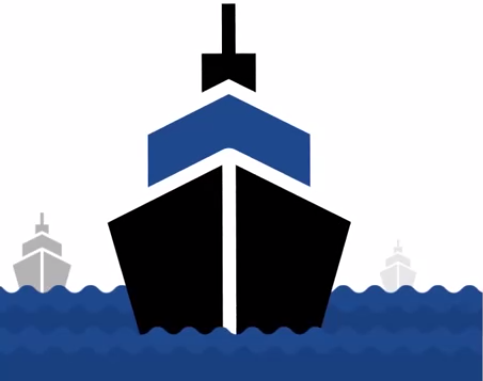
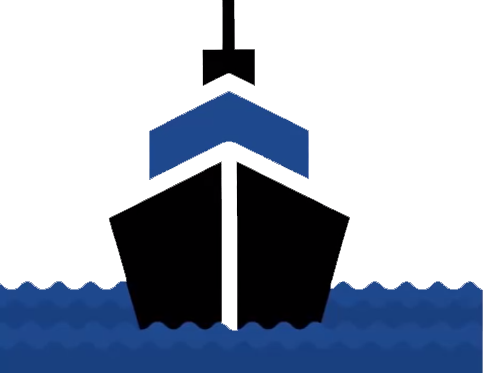
add slider(3 imgs in total)

diff --git a/js/slider.js b/js/slider.js
@@ -1,0 +1,106 @@
+//current position
+var pos = 0;
+//number of slides
+var totalSlides = $('#slider-wrap ul li').length;
+//get the slide width
+var sliderWidth = $('#slider-wrap').width();
+
+
+$(document).ready(function(){
+	
+	
+	/*****************
+	 BUILD THE SLIDER
+	*****************/
+	//set width to be 'x' times the number of slides
+	$('#slider-wrap ul#slider').width(sliderWidth*totalSlides);
+	
+    //next slide 	
+	$('#next').click(function(){
+		slideRight();
+	});
+	
+	//previous slide
+	$('#previous').click(function(){
+		slideLeft();
+	});
+	
+	
+	
+	/*************************
+	 //*> OPTIONAL SETTINGS
+	************************/
+	//automatic slider
+	var autoSlider = setInterval(slideRight, 3000);
+	
+	//for each slide 
+	$.each($('#slider-wrap ul li'), function() { 
+	   //set its color
+	   var c = $(this).attr("data-color");
+	   $(this).css("background",c);
+	   
+	   //create a pagination
+	   var li = document.createElement('li');
+	   $('#pagination-wrap ul').append(li);	   
+	});
+	
+	//counter
+	countSlides();
+	
+	//pagination
+	pagination();
+	
+	//hide/show controls/btns when hover
+	//pause automatic slide when hover
+	$('#slider-wrap').hover(
+	  function(){ $(this).addClass('active'); clearInterval(autoSlider); }, 
+	  function(){ $(this).removeClass('active'); autoSlider = setInterval(slideRight, 3000); }
+	);
+	
+	
+
+});//DOCUMENT READY
+	
+
+
+/***********
+ SLIDE LEFT
+************/
+function slideLeft(){
+	pos--;
+	if(pos==-1){ pos = totalSlides-1; }
+	$('#slider-wrap ul#slider').css('left', -(sliderWidth*pos)); 	
+	
+	//*> optional
+	countSlides();
+	pagination();
+}
+
+
+/************
+ SLIDE RIGHT
+*************/
+function slideRight(){
+	pos++;
+	if(pos==totalSlides){ pos = 0; }
+	$('#slider-wrap ul#slider').css('left', -(sliderWidth*pos)); 
+	
+	//*> optional 
+	countSlides();
+	pagination();
+}
+
+
+
+	
+/************************
+ //*> OPTIONAL SETTINGS
+************************/
+function countSlides(){
+	$('#counter').html(pos+1 + ' / ' + totalSlides);
+}
+
+function pagination(){
+	$('#pagination-wrap ul li').removeClass('active');
+	$('#pagination-wrap ul li:eq('+pos+')').addClass('active');
+}

diff --git a/wellcome.html b/wellcome.html
@@ -5,6 +5,9 @@
 	<!-- Bootstrap 核心 CSS 文件 -->
     <link rel="stylesheet" href="http://cdn.bootcss.com/bootstrap/3.3.5/css/bootstrap.min.css">
 	<link rel="stylesheet" type="text/css" href="css/wellcome.css">
+	<!--轮播图样式 -->
+
+
 </head>
 <body>
 	<div class="main">
@@ -12,6 +15,12 @@
 		<p id="time1">今天是
 		<p>{%username%}欢迎你访问快递管理系统</p>
 	</div>
+	
+	<div id="myCarousel" style="margin:10px 0;padding:0 20%;background-color:#8b8b8b;">
+		<img src="img/201405271129463177.png" style="width:100%;">
+	</div>
+	
+	
 
 	<div class="img-ab">
 		<div class="right-bottom-r1"></div>
@@ -25,6 +34,22 @@
 
 	<!-- jQuery文件。务必在bootstrap.min.js 之前引入 -->
 	<script src="http://cdn.bootcss.com/jquery/1.11.3/jquery.min.js"></script>
+	<!--轮播图-->
+	<script>
+	imgIndex = 0;
+	imgColor = ["rgb(139,139,139)","rgb(43,123,212)","rgb(222,228,229)"]
+	imgPath = ["img/201405271129463177.png","img/201401251118078087.png","img/201401251118126532.png"];
+	CarouselImg = document.getElementById('myCarousel').getElementsByTagName('img')[0];
+	
+	setInterval(function() {
+	imgIndex = (imgIndex+1)%3;
+	CarouselImg.setAttribute('src',imgPath[imgIndex]);
+	document.getElementById('myCarousel').style.backgroundColor = imgColor[imgIndex];
+
+	},5000);
+	</script>
+	
+</script>
 	<!-- 最新的 Bootstrap 核心 JavaScript 文件 -->
 	<script src="http://cdn.bootcss.com/bootstrap/3.3.5/js/bootstrap.min.js"></script>
 	<script>

diff --git a/navigation.html b/navigation.html
@@ -14,7 +14,7 @@
     <div class="container-fluid">
         <div class="navbar-header">
             <span><img src="img/icon.png" style="height:30px;float:left;margin-top: 9px;"></span>
-            <a class="navbar-brand" href="#">快递管理系统</a>
+            <a class="navbar-brand" href="index.html" target="parent">快递管理系统</a>
         </div>
         <div>
             <ul class="nav navbar-nav navbar-right">

diff --git a/css/wellcome.css b/css/wellcome.css
@@ -41,6 +41,12 @@ html,body,div,img{
 	width: 3.2em;
 	margin-right: 1em;
 }
+
+
+.img-ab{
+	margin-bottom: 0;
+	margin-left: 0;
+}
 .left-bottom{
 	position: absolute;
 	width: 26%;
